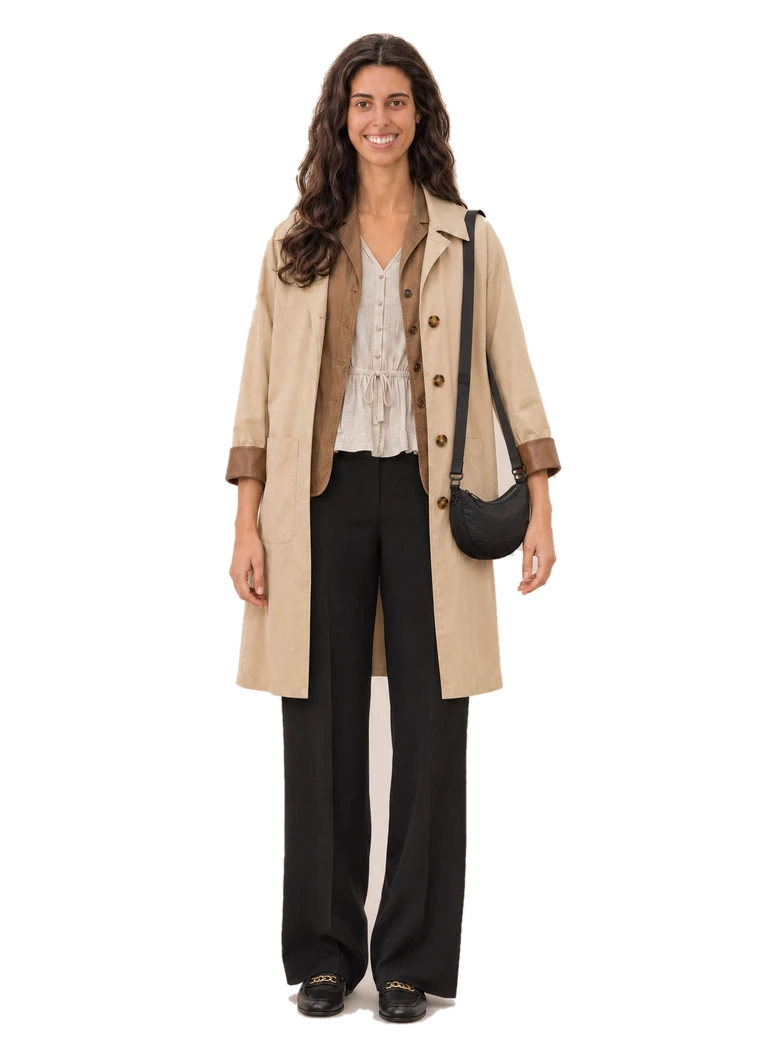
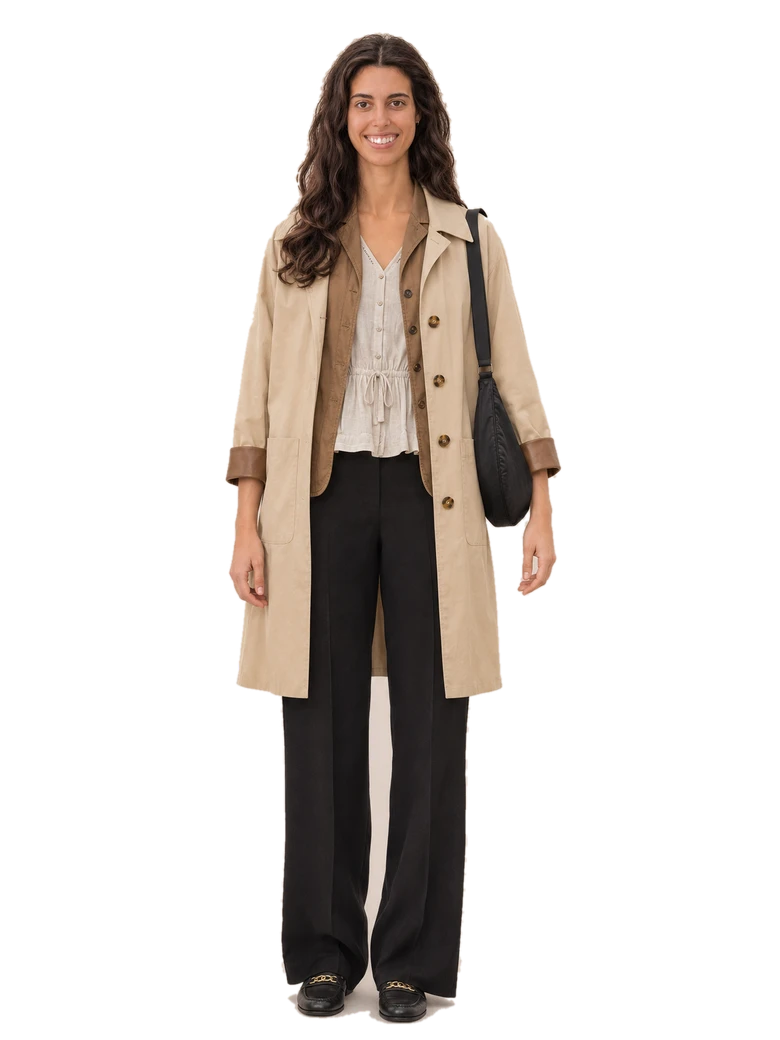
Look 014: new first photo
Claude-Session: https://claude.ai/code/session_015SQ6x2NYkgXhrEuzvt1gq2

diff --git a/index.html b/index.html
@@ -826,9 +826,9 @@ let PHOTOS=[
   {id:'look-013',items:['i2','i30','i28','i36','i13','i15'],images:[{show:['i2','i30','i28','i36','i13','i15'],src:'photos/looks/look-013-1-full.webp'},{show:['i30','i28','i36','i13','i15'],src:'photos/looks/look-013-2-no-coat.webp'},{show:['i28','i36','i13','i15'],src:'photos/looks/look-013-3-no-layers.webp'}]},
   {id:'look-013b',items:['i30','i28','i36','i13','i15'],images:[{show:['i30','i28','i36','i13','i15'],src:'photos/looks/look-013-2-no-coat.webp'},{show:['i28','i36','i13','i15'],src:'photos/looks/look-013-3-no-layers.webp'}]},
   {id:'look-013c',items:['i28','i36','i13','i15'],images:[{show:['i28','i36','i13','i15'],src:'photos/looks/look-013-3-no-layers.webp'}]},
-  {id:'look-014',items:['i2','i33','i40','i8','i12','i16'],images:[{show:['i2','i33','i40','i8','i12','i16'],src:'photos/looks/look-014-1-full.webp'},{show:['i33','i40','i8','i12','i16'],src:'photos/looks/look-014-2-no-coat.webp'},{show:['i40','i8','i12','i16'],src:'photos/looks/look-014-3-no-layers.webp'}]},
-  {id:'look-014b',items:['i33','i40','i8','i12','i16'],images:[{show:['i33','i40','i8','i12','i16'],src:'photos/looks/look-014-2-no-coat.webp'},{show:['i40','i8','i12','i16'],src:'photos/looks/look-014-3-no-layers.webp'}]},
-  {id:'look-014c',items:['i40','i8','i12','i16'],images:[{show:['i40','i8','i12','i16'],src:'photos/looks/look-014-3-no-layers.webp'}]}];
+  {id:'look-014',items:['i2','i33','i40','i8','i12','i16'],images:[{show:['i2','i33','i40','i8','i12','i16'],src:'photos/looks/look-014-1-full.webp?v=2'},{show:['i33','i40','i8','i12','i16'],src:'photos/looks/look-014-2-no-coat.webp?v=2'},{show:['i40','i8','i12','i16'],src:'photos/looks/look-014-3-no-layers.webp?v=2'}]},
+  {id:'look-014b',items:['i33','i40','i8','i12','i16'],images:[{show:['i33','i40','i8','i12','i16'],src:'photos/looks/look-014-2-no-coat.webp?v=2'},{show:['i40','i8','i12','i16'],src:'photos/looks/look-014-3-no-layers.webp?v=2'}]},
+  {id:'look-014c',items:['i40','i8','i12','i16'],images:[{show:['i40','i8','i12','i16'],src:'photos/looks/look-014-3-no-layers.webp?v=2'}]}];
 const same=(a,b)=>a.length===b.length&&a.every(x=>b.includes(x));
 const noAcc=ids=>(ids||[]).filter(id=>{const i=byId(id);return!(i&&i.cat==='socks')});
 const photoFor=ids=>PHOTOS.find(p=>same(p.items,noAcc(ids)));
